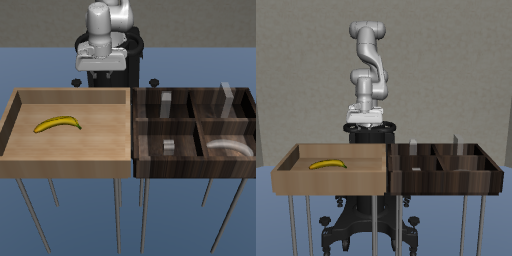
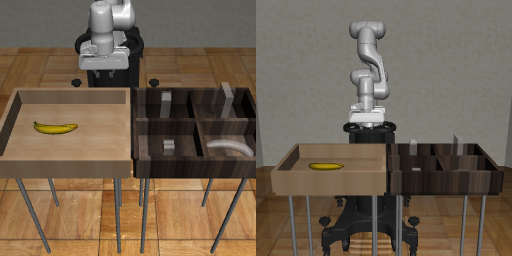
updated usage in readme

diff --git a/README.md b/README.md
@@ -10,7 +10,7 @@ pip install -e .
 
 Ships YCB assets with scripts to generate the required raw files. 
 
-The raw mesh for a given `ycb_id` downloads automatically (needs internet) into `models/assets/objects/ycb/raw/`.
+The raw mesh for a given `ycb_id` downloads automatically (needs internet) into `robosuite/models/assets/objects/ycb/raw/`.
 
 ## Choosing the object in Lift
 
@@ -37,19 +37,13 @@ env = suite.make("PickPlaceCan", robots="Panda", object_type="011_banana")  # YC
 env = suite.make("PickPlaceCan", robots="Panda", object_type="lemon")       # primitive or XML object
 ```
 
+- All 37 YCB ids in `YCB_OBJECTS` are compatible: each one builds, resets cleanly and starts outside the can's bin. Whether the robot can grasp an object or fit it into the can's bin isn't checked. Large ones such as `019_pitcher_base` or `028_skillet_lid` may not work.
 - The new object keeps the can's name (`Can`). Its observations (`Can_pos`, `Can_quat`, ...), target bin and success check are therefore the can's, and Can-trained policies run without changes.
 - A YCB object's target marker is a see-through gray copy of the object. Other objects keep the can marker.
 - Only the active object is placed in bin 1. This lets large objects such as `003_cracker_box` and `029_plate` fit. Milk, bread and cereal are still moved out of the scene on reset.
 - `PickPlaceMilk`, `PickPlaceBread` and `PickPlaceCereal` accept `object_type` the same way and use that object's bin. On the base `PickPlace` env the argument is `object_model`, and it requires `single_object_mode=2`.
 
-<img src="renders/pick_place_ycb/all_objects.png" width="400" alt="PickPlaceCan with the default can and six YCB objects, agentview and frontview">
-
-Regenerate the renders and run the checks with:
-
-```bash
-MUJOCO_GL=egl python tests/ycb/render_pick_place.py --objects 011_banana 025_mug   # -> renders/pick_place_ycb/
-MUJOCO_GL=egl python tests/ycb/test_pick_place_ycb.py
-```
+<img src="renders/pick_place_ycb/011_banana.png" width="512" alt="PickPlaceCan with 011_banana in place of the can (agentview, frontview); its gray ghost marks the can's bin">
 
 ## Camera images with YCB objects
 
